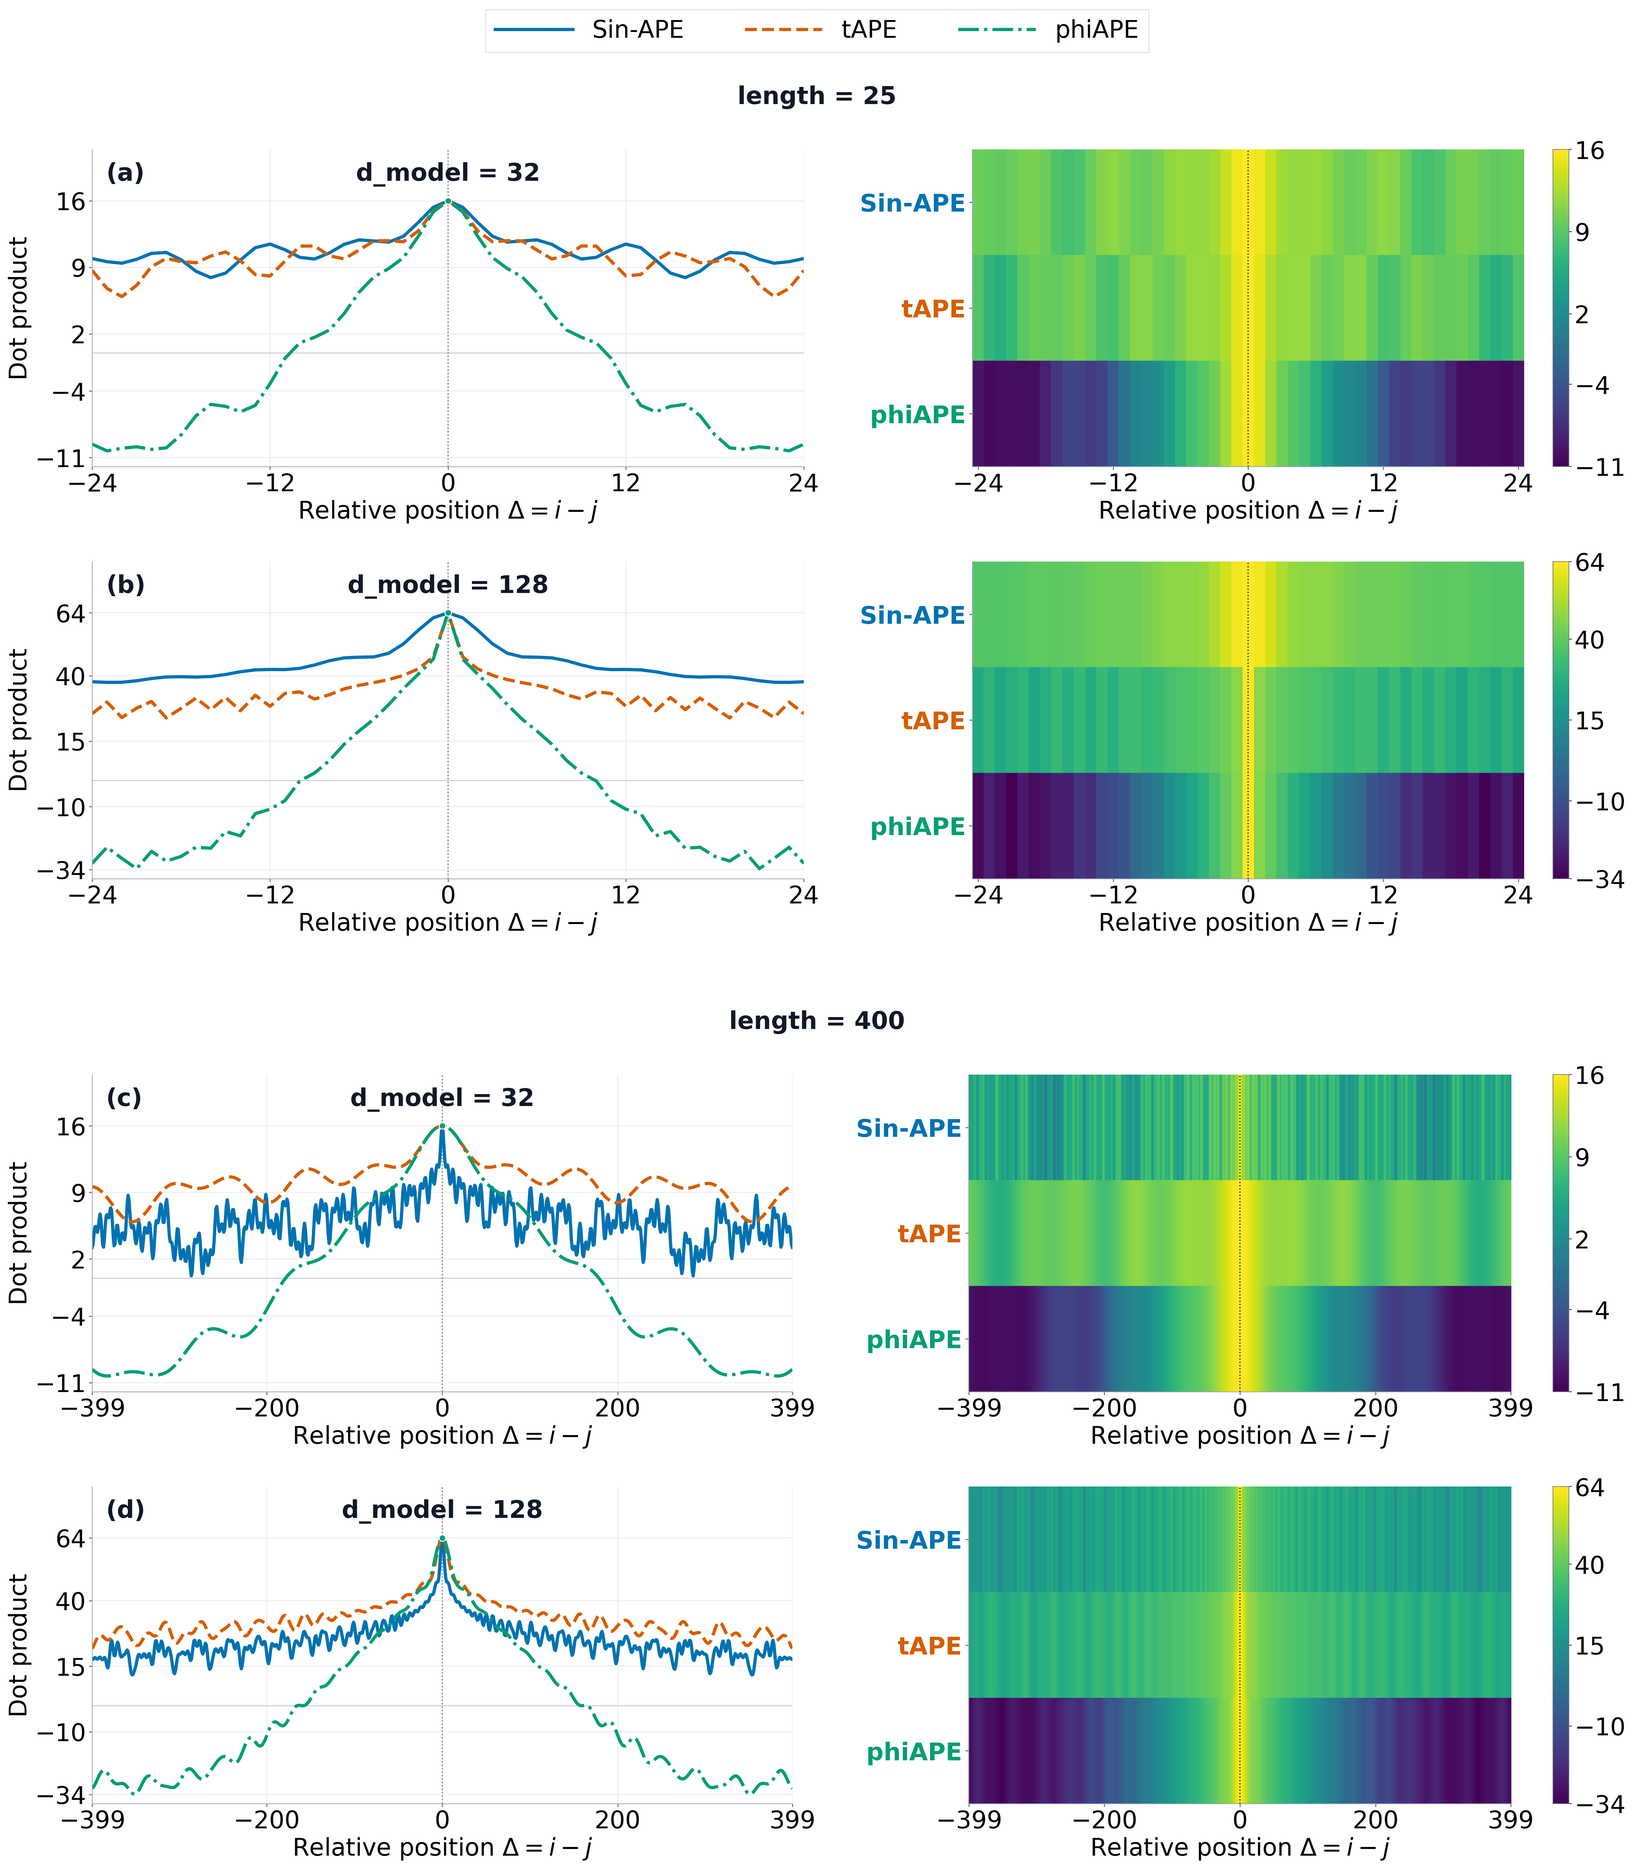
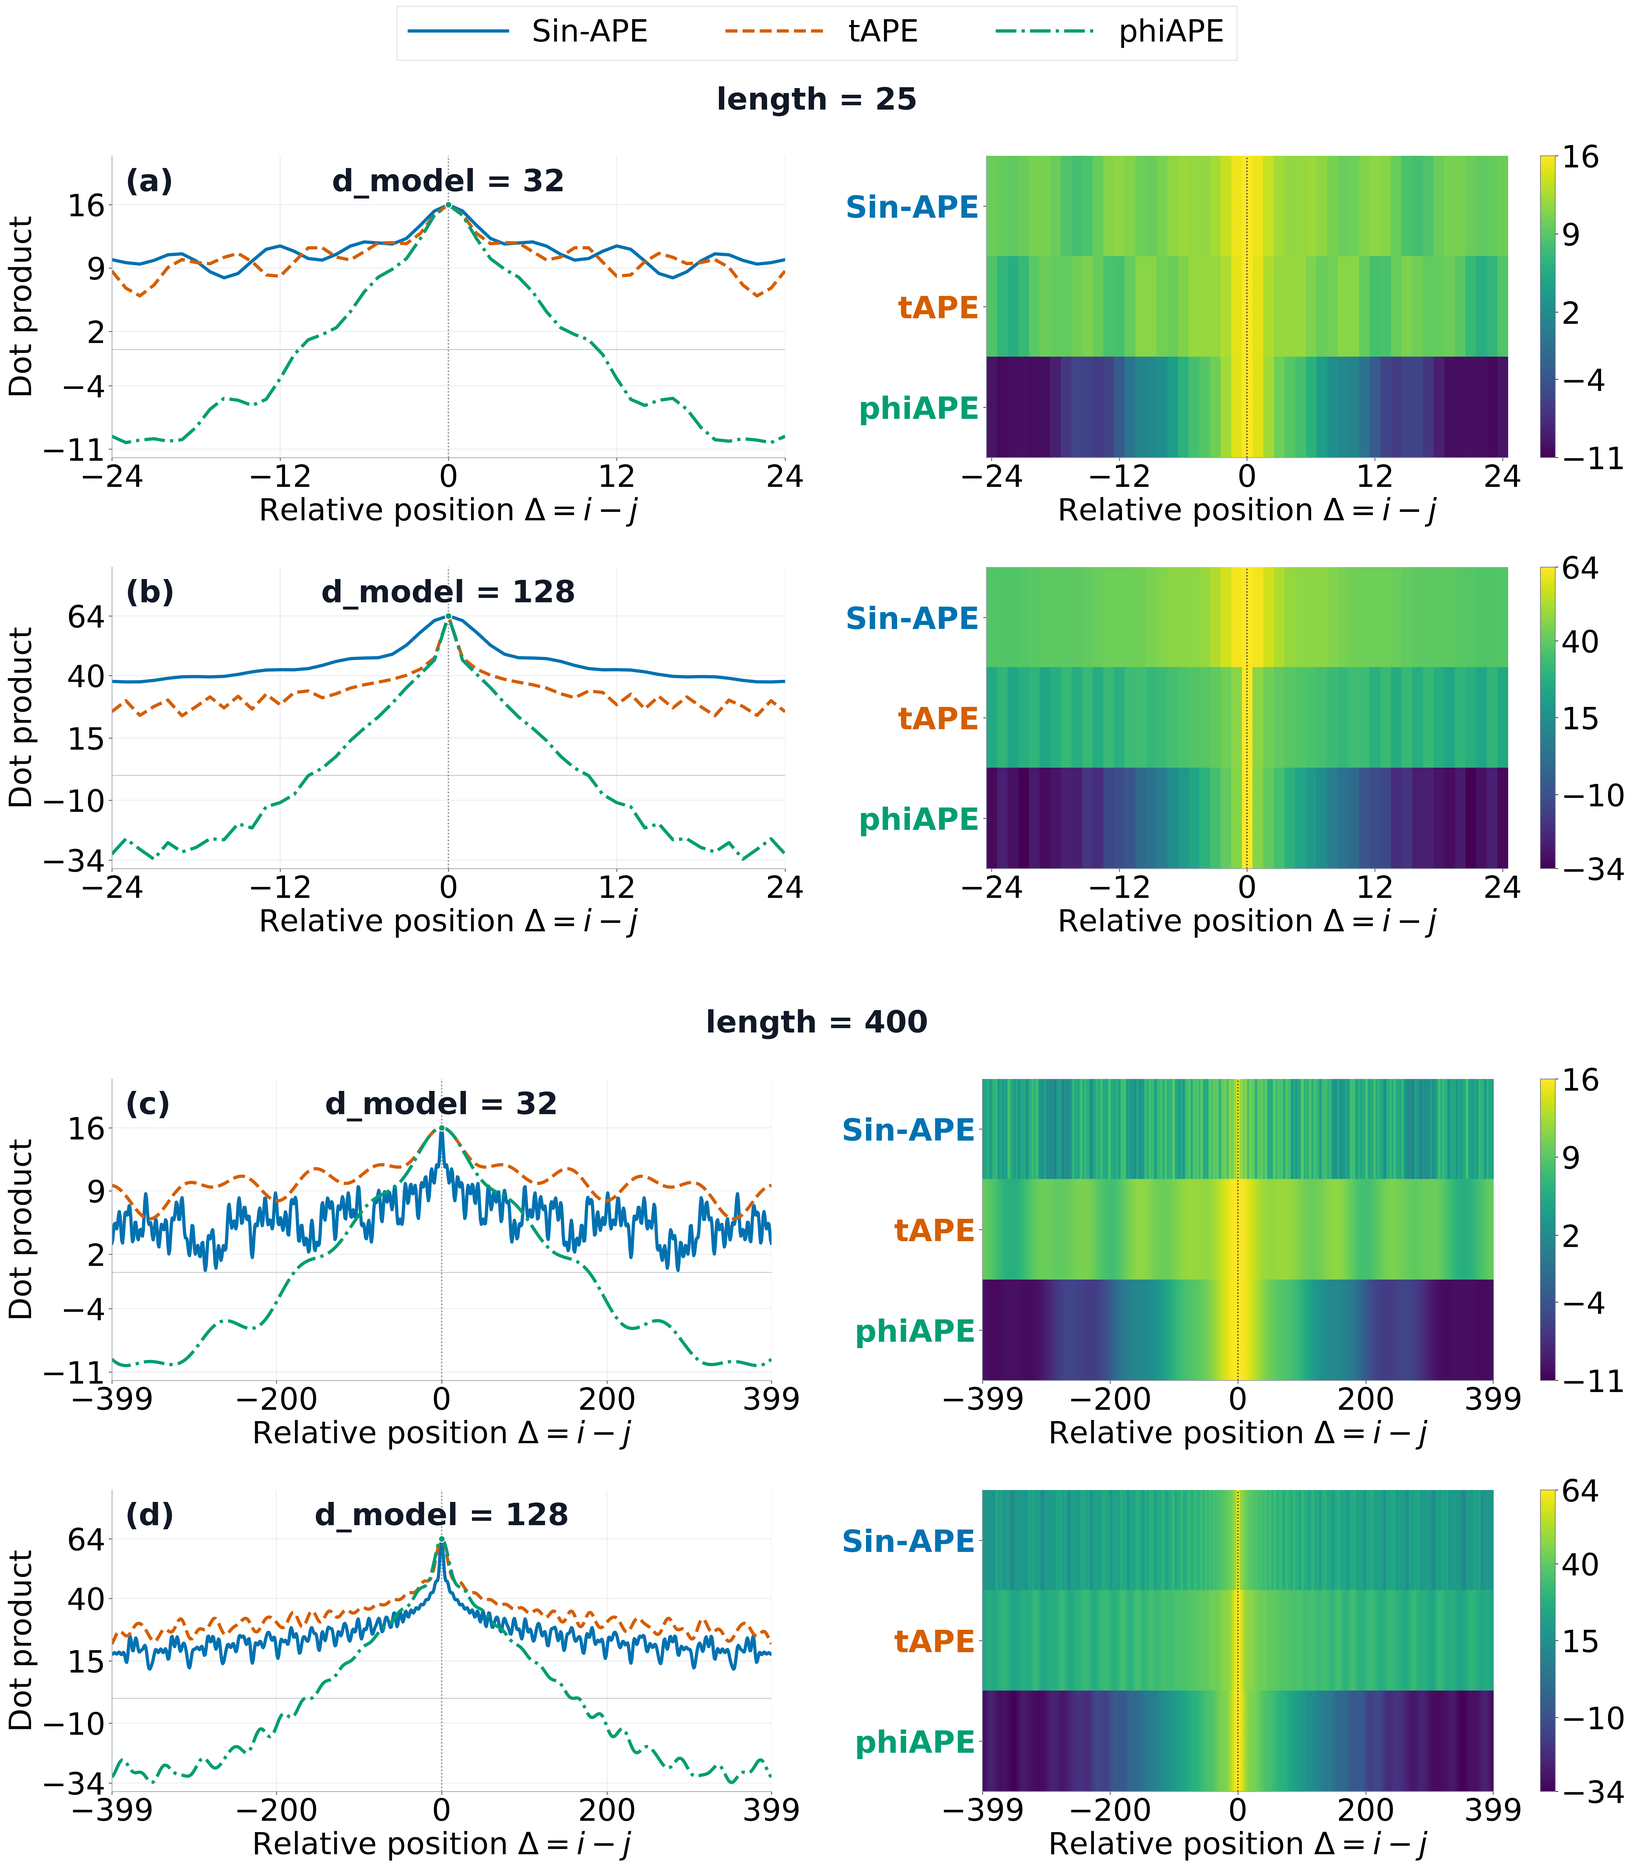
Lead the README with use cases and the manuscript figure

diff --git a/README.md b/README.md
@@ -1,221 +1,86 @@
 # phiAPE
 
-**Phase-Span Absolute Positional Encoding for time-series Transformers**
+**Positional encoding for compact time-series Transformers**
 
-Code and seed-level results for *Rethinking Absolute Positional Encoding in
-Transformers for Time-Series Modeling* (WSDM 2027). The repository implements
-phiAPE for additive positional encoding and phiRoPE for a separate comparison
-with RoPE. Both experiments use the same Time Series Transformer (TST)
-backbone on the UEA and UCR classification archives. See [Citation](#citation)
-for the paper reference.
+Temporal order matters in time-series classification. In a compact Transformer,
+some standard sinusoidal pairs can stay nearly constant across the input,
+using channels that could distinguish positions. **phiAPE** uses the known
+sequence length to allocate frequencies. The slowest pair spans half a cycle
+from the first sample to the last, and faster pairs capture finer positional
+scales. It adds no trainable parameters.
 
-## One frequency rule, two ways to encode position
+- **Time-series researchers** can reproduce the WSDM 2027 results from
+  35,392 archived UEA and UCR runs or retrain the benchmarks.
+- **Transformer developers** can reuse the [additive encoding](src/phiape_benchmarks/core.py)
+  or try [phiRoPE](src/phiape_benchmarks/rotary_attention.py) in rotary attention.
+  phiRoPE applies the same rule at the per-head width and rotates projected
+  queries and keys while leaving values unrotated.
 
-A fixed sinusoidal encoding assigns a frequency to each sine/cosine pair.
-With a compact embedding and a short sequence, some pairs in the standard
-geometric grid can change very little from the first sample to the last.
-phiAPE uses the known sequence length to set the phase span covered by each
-pair. The slowest pair completes exactly half a cycle over the sequence,
-while faster pairs retain different positional scales.
+<p align="center">
+  <img src="assets/phiAPE_positional_similarity.png" width="70%" alt="Line plots and heatmaps comparing Sin-APE, tAPE, and phiAPE for sequence lengths 25 and 400 and embedding widths 32 and 128.">
+</p>
 
-For a sequence of length $L$ and an even encoding width $d$, let $u_j$ denote
-the min–max normalized standard geometric frequency grid. With $c=4$ in the
-reported experiments, the frequency assigned to pair $j$ is
+*Figure 1 from the paper.* Positional similarity for Sin-APE, tAPE, and
+phiAPE across the full signed range of position differences. Each heatmap
+shows the same values as its line plot, using a common scale across methods
+within that panel.
 
-$$
-\omega_{\min}=\frac{\pi}{L-1}, \qquad
-\omega_j=\omega_{\min}\left(1+\frac{d}{c}u_j\right).
-$$
+## What the paper found
 
-- **phiAPE** uses the full embedding width $d$. It adds the vector
-  $[\sin(p\omega_0),\cos(p\omega_0),\ldots]$ at position $p$ to the
-  projected input. The encoding adds no trainable parameters.
-- **phiRoPE** evaluates the same rule at the per-head width $d_h=d/8$.
-  As in standard RoPE, each attention head rotates the projected queries
-  and keys by position and passes values through unrotated. The two rotary
-  conditions differ only in their frequencies. At model widths 32 and 128,
-  each head has two and eight rotary pairs, respectively.
+In the five-method additive comparison, phiAPE achieved the best average rank
+on both archives at widths 32 and 128. In the separate rotary comparison,
+phiRoPE improved mean accuracy over RoPE in all four settings, with significant
+gains at width 32 on both archives. Both comparisons use paired dataset means
+over 16 seeds and two-sided Wilcoxon tests with Holm adjustment.
 
-<!--
-Place the overview illustration here when assets/phiAPE_method_overview.png
-is available. Use the alt text and caption in assets/README.md.
--->
+## Install and reproduce
 
-<details>
-<summary>Positional similarity across short and long sequences</summary>
-
-![Line plots and heatmaps comparing Sin-APE, tAPE, and phiAPE over signed position differences for sequence lengths 25 and 400 and embedding widths 32 and 128.](assets/phiAPE_positional_similarity.png)
-
-*Unnormalized positional similarity* $K(\Delta)=\sum_j\cos(\Delta\omega_j)$
-*over* $\Delta=-(L-1),\ldots,L-1$. The curves and heatmaps show the same
-computed values. Each configuration uses a common color scale across methods.
-
-</details>
-
-## Installation and experiment environments
-
-### Reproduce the paper tables on your machine
-
-The validated reporting setup uses Python 3.12.7, NumPy 1.26.4,
-pandas 2.2.3, and SciPy 1.13.1. From the repository root, create an
-environment with Python 3.12 and install the versions in
-[requirements.txt](requirements.txt).
+From the repository root, use Python 3.12 and the tested
+[requirements](requirements.txt):
 
 ```bash
 python3.12 -m venv .venv
 source .venv/bin/activate
 python -m pip install -r requirements.txt
 python -m pip install -e .
-```
 
-On Windows, use `py -3.12 -m venv .venv` and activate with
-`.venv\Scripts\Activate.ps1` in PowerShell. The reporting commands run on CPU.
-For training, you can install a PyTorch 2.6.0 build for your CPU or CUDA
-platform before installing the requirements. Install `gdown` if the UEA
-loader needs to download a dataset from Google Drive.
-
-### Original training environment
-
-The archived additive runs came from the v7 UEA and v9 UCR TST experiments.
-The rotary runs came from v28. The original Raven jobs used Python 3.9 with
-the following modules:
-
-```bash
-module load cuda/11.4
-module load anaconda/3/2021.11
-module load pytorch/gpu-cuda-11.4/1.13.0
-module load cudnn/8.2.4
-```
-
-The experiment setup created a virtual environment with
-`python -m venv --system-site-packages` to inherit the module's PyTorch.
-[requirements-hpc.txt](requirements-hpc.txt) records the union of the
-original UEA and UCR dependency lists. Most versions were left unpinned in
-those lists, so the module stack and requirements document the original
-setup without claiming an exact environment lock. Use the Python 3.12 setup
-above to reproduce the published analysis from the archived runs.
-
-## Reproduce Table 2 from the archived runs
-
-```bash
-phiape-benchmarks table2
-```
-
-The command calculates all four rows directly from the
-[10,112 bundled rotary seed results](rotary_reference_results/README.md).
-It writes `phiRoPE_transfer_summary.tex` and the full-precision
-`phiRoPE_transfer_summary.csv` under `outputs/reports/`. This workflow runs
-on a CPU and requires only the repository's bundled results as input.
-
-| Setting | RoPE (%) | phiRoPE (%) | Gain (pp) | Wins / ties / losses | Holm-adjusted p |
-|---|---:|---:|---:|:---:|---:|
-| UEA, d = 32 | 64.82 | 66.96 | +2.14 | 24 / 1 / 5 | 0.0014 |
-| UEA, d = 128 | 67.43 | 68.11 | +0.69 | 19 / 0 / 11 | 0.0654 |
-| UCR, d = 32 | 59.81 | 62.96 | +3.15 | 94 / 3 / 31 | <0.001 |
-| UCR, d = 128 | 67.14 | 67.81 | +0.67 | 71 / 4 / 53 | 0.0860 |
-
-Each dataset contributes one accuracy per method, calculated from integer
-correct-prediction counts across its 16 paired repeats. The archive means
-weight datasets equally. Gains and win/tie/loss counts are in the direction
-phiRoPE minus RoPE. The two-sided paired Wilcoxon tests use differences
-rounded to 12 decimals. The exact test is used for at most 50 differences
-when none is zero and their absolute ranks are untied. Other nondegenerate
-settings use the tie-adjusted normal approximation without continuity
-correction. Holm correction covers the four archive–dimension tests.
-The gains at $d=32$ are significant at an adjusted threshold of 0.05.
-
-If you have the original v28 experiment directory, you can generate the same
-table directly from its run CSVs using
-`phiape-benchmarks table2 --v28-root "/path/to/HPC-APE v28 TST RoPE"`.
-
-## Reproduce Table 1 and Figure 4 from the archived runs
-
-```bash
 phiape-benchmarks check
-phiape-benchmarks report
+phiape-benchmarks report   # Table 1 and Figure 4
+phiape-benchmarks table2   # RoPE versus phiRoPE
 ```
 
-These commands use the [25,280 bundled additive seed results](reference_results/README.md)
-for No-APE, Learned APE, Sin-APE, tAPE, and phiAPE. The report writes Table 1
-as LaTeX, the four rank panels for Figure 4, numeric CSVs, and an Excel
-workbook under `outputs/reports/`.
+On Windows, create the environment with `py -3.12 -m venv .venv` and activate
+it with `.venv\Scripts\Activate.ps1` in PowerShell. The reporting commands run
+on CPU and write their outputs to `outputs/reports/`. The
+[additive](reference_results/README.md) and [rotary](rotary_reference_results/README.md)
+reference results include provenance and run configurations.
 
-The analysis averages the 16 repeats within each dataset and compares methods
-using the paired dataset means. Each archive and embedding width has its own
-Friedman test and ten two-sided paired Wilcoxon tests, adjusted together by
-Holm step-down. The paired tests follow the same rule for exact and approximate
-p-values as Table 2. The report's tables and rank diagrams use the same
-adjusted decisions. Each diagram bar identifies a maximal group whose member
-pairs are all nonsignificant at 0.05. The JSON beside each panel records the
-group members and their average ranks.
+The original Raven training jobs used Python 3.9, PyTorch 1.13.0,
+CUDA 11.4, and cuDNN 8.2.4. [requirements-hpc.txt](requirements-hpc.txt)
+records the dependencies declared in the original job environments.
+Fresh training scores can vary across hardware and software versions.
 
-The reporting commands cover the main paper's additive and rotary TST results.
-Per-dataset means are available in the CSV and workbook for inspection.
+## Retrain
 
-## Train on your own machine
-
-Start with a small paired run before training over the full archives.
+Start with one dataset and one seed to check your setup.
 
 ```bash
 phiape-benchmarks run --rotary --archive ucr --dimension 32 --datasets ECG200 --seeds 2026
 ```
 
-This trains both rotary methods for one seed and writes their runs to
-`outputs/rotary/`. Table 2 requires complete results for both methods on
-all four settings. To train and report the full comparison, use
-
-```bash
-phiape-benchmarks run-all --rotary
-phiape-benchmarks table2 --input outputs/rotary --report-dir outputs/retrained-rotary
-```
-
-For the five additive conditions, use
+The full comparisons use 30 UEA and 128 UCR datasets at widths 32 and 128.
+The [run protocol](src/phiape_benchmarks/protocol.py) records the shared
+training settings. Runs use CUDA when available, save after each repeat,
+and resume when you rerun the same command. Install `gdown` if the UEA
+loader needs to download a dataset from Google Drive.
 
 ```bash
 phiape-benchmarks run-all
 phiape-benchmarks report --input outputs --report-dir outputs/retrained-additive
+
+phiape-benchmarks run-all --rotary
+phiape-benchmarks table2 --input outputs/rotary --report-dir outputs/retrained-rotary
 ```
-
-A full run trains 10,112 rotary models or 25,280 additive models. Runs use
-CUDA when available and fall back to CPU. The data loaders cache the datasets
-under `datasets/` and results are saved after each completed repeat. Restart
-the same command to resume. Use `--data-root` and `--output-root` to choose
-different directories. Fresh training results can vary with hardware,
-library versions, and archive versions even with the same seeds. Each new
-run records its software and device environment.
-
-### Shared training protocol
-
-| Setting | Value |
-|---|---|
-| Archives | 30 multivariate UEA datasets and 128 univariate UCR datasets |
-| Embedding widths | 32 and 128 |
-| Model seeds | 2026–2041, paired across methods |
-| Validation | 20% of training data, split seed 2026 |
-| Input processing | Sequences capped at 512 steps, with channel standardization fitted on the training split |
-| TST backbone | 3 layers, 8 attention heads, feed-forward width 256, dropout 0.20 |
-| Optimization | AdamW, learning rate 0.001, weight decay 0.0001, gradient clipping norm 4 |
-| Training budget | Batch size 64, up to 200 epochs, early stopping patience 32 |
-| Model selection | Minimum validation loss, then evaluation on the archive test split |
-
-The same split, model seeds, and training settings are used for the two
-rotary conditions. Each reference manifest records the training protocol,
-source hashes, and expected coverage. The reporting commands validate the
-seed-level inputs before calculating results.
-
-## Repository guide
-
-| Location | Contents |
-|---|---|
-| [src/phiape_benchmarks/](src/phiape_benchmarks/) | TST model, positional encodings, loaders, runner, and reports |
-| [reference_results/](reference_results/) | Five-method additive seed results and provenance |
-| [rotary_reference_results/](rotary_reference_results/) | RoPE and phiRoPE seed results and provenance |
-| [assets/](assets/README.md) | Positional-similarity figure and overview illustration brief |
-| [tests/](tests/) | Model, runner, and report checks |
-| [LICENSE](LICENSE) | MIT license for the software |
-
-To run the checks locally, install the test extra with
-`python -m pip install -e ".[test]"` and run `pytest`.
 
 ## License
 

diff --git a/assets/README.md b/assets/README.md
@@ -1,46 +1,7 @@
-# README figures
+# Figure 1
 
-`phiAPE_positional_similarity.png` is the numerical positional-similarity
-figure shown in the project README. It compares Sin-APE, tAPE, and phiAPE
-for two sequence lengths and two embedding widths.
-
-## Planned overview illustration
-
-**Target file:** `phiAPE_method_overview.png` (1600 × 900 pixels, 16:9).
-Place it below “One frequency rule, two ways to encode position.”
-
-### Illustration brief
-
-Create a clean, wide scientific diagram for a research repository. Use a
-white background, dark text, and two accessible accent colors. Use simple
-geometric forms and generous spacing so labels remain legible when the
-figure is displayed at 800 pixels wide.
-
-Show one left-to-right flow with a fork at the end:
-
-1. **Standard frequency grid.** Draw a horizontal frequency ruler with a
-   handful of unevenly spaced markers, including several close to zero.
-   Label the markers collectively “Sine/cosine pairs.”
-2. **Phase-span remapping.** Show an arrow from the original ruler to a
-   bounded frequency ruler. Keep the marker order and show a positive lower
-   bound. Label the endpoints “π/(L−1)” and “π/(L−1) × (1 + width/4).”
-   Beside the lower bound, show a small half-circle from start to end with
-   the label “Half-cycle across the sequence.”
-3. **Two branches.** The upper branch is labeled “phiAPE · additive” and
-   “width = embedding dimension.” Show a position vector entering a plus
-   node with the projected input. The lower branch is labeled
-   “phiRoPE · rotary” and “width = per-head dimension.” Show separate
-   circular arrows on Q and K, with V as a straight passthrough. Give the
-   branches equal visual weight.
-
-Keep the illustration schematic. Use only these technical labels and avoid
-performance values or invented experimental plots. The existing numerical
-figure shows the computed geometry of the encodings.
-
-**Alt text:** A geometric frequency grid is remapped to a bounded interval.
-The slowest pair covers half a cycle across the sequence. The result feeds
-additive input encoding in phiAPE and per-head query/key rotation in phiRoPE.
-
-**Caption:** Phase-span remapping sets the slowest pair to half a cycle over
-the sequence. phiAPE uses the model width to encode inputs additively.
-phiRoPE uses the head width to rotate queries and keys.
+`phiAPE_positional_similarity.png` is the original Figure 1 asset from the
+main WSDM 2027 manuscript. It compares the positional similarity of Sin-APE,
+tAPE, and phiAPE for sequence lengths 25 and 400 and embedding widths 32
+and 128. The curves and heatmaps are calculated directly from the frequency
+schedules.
